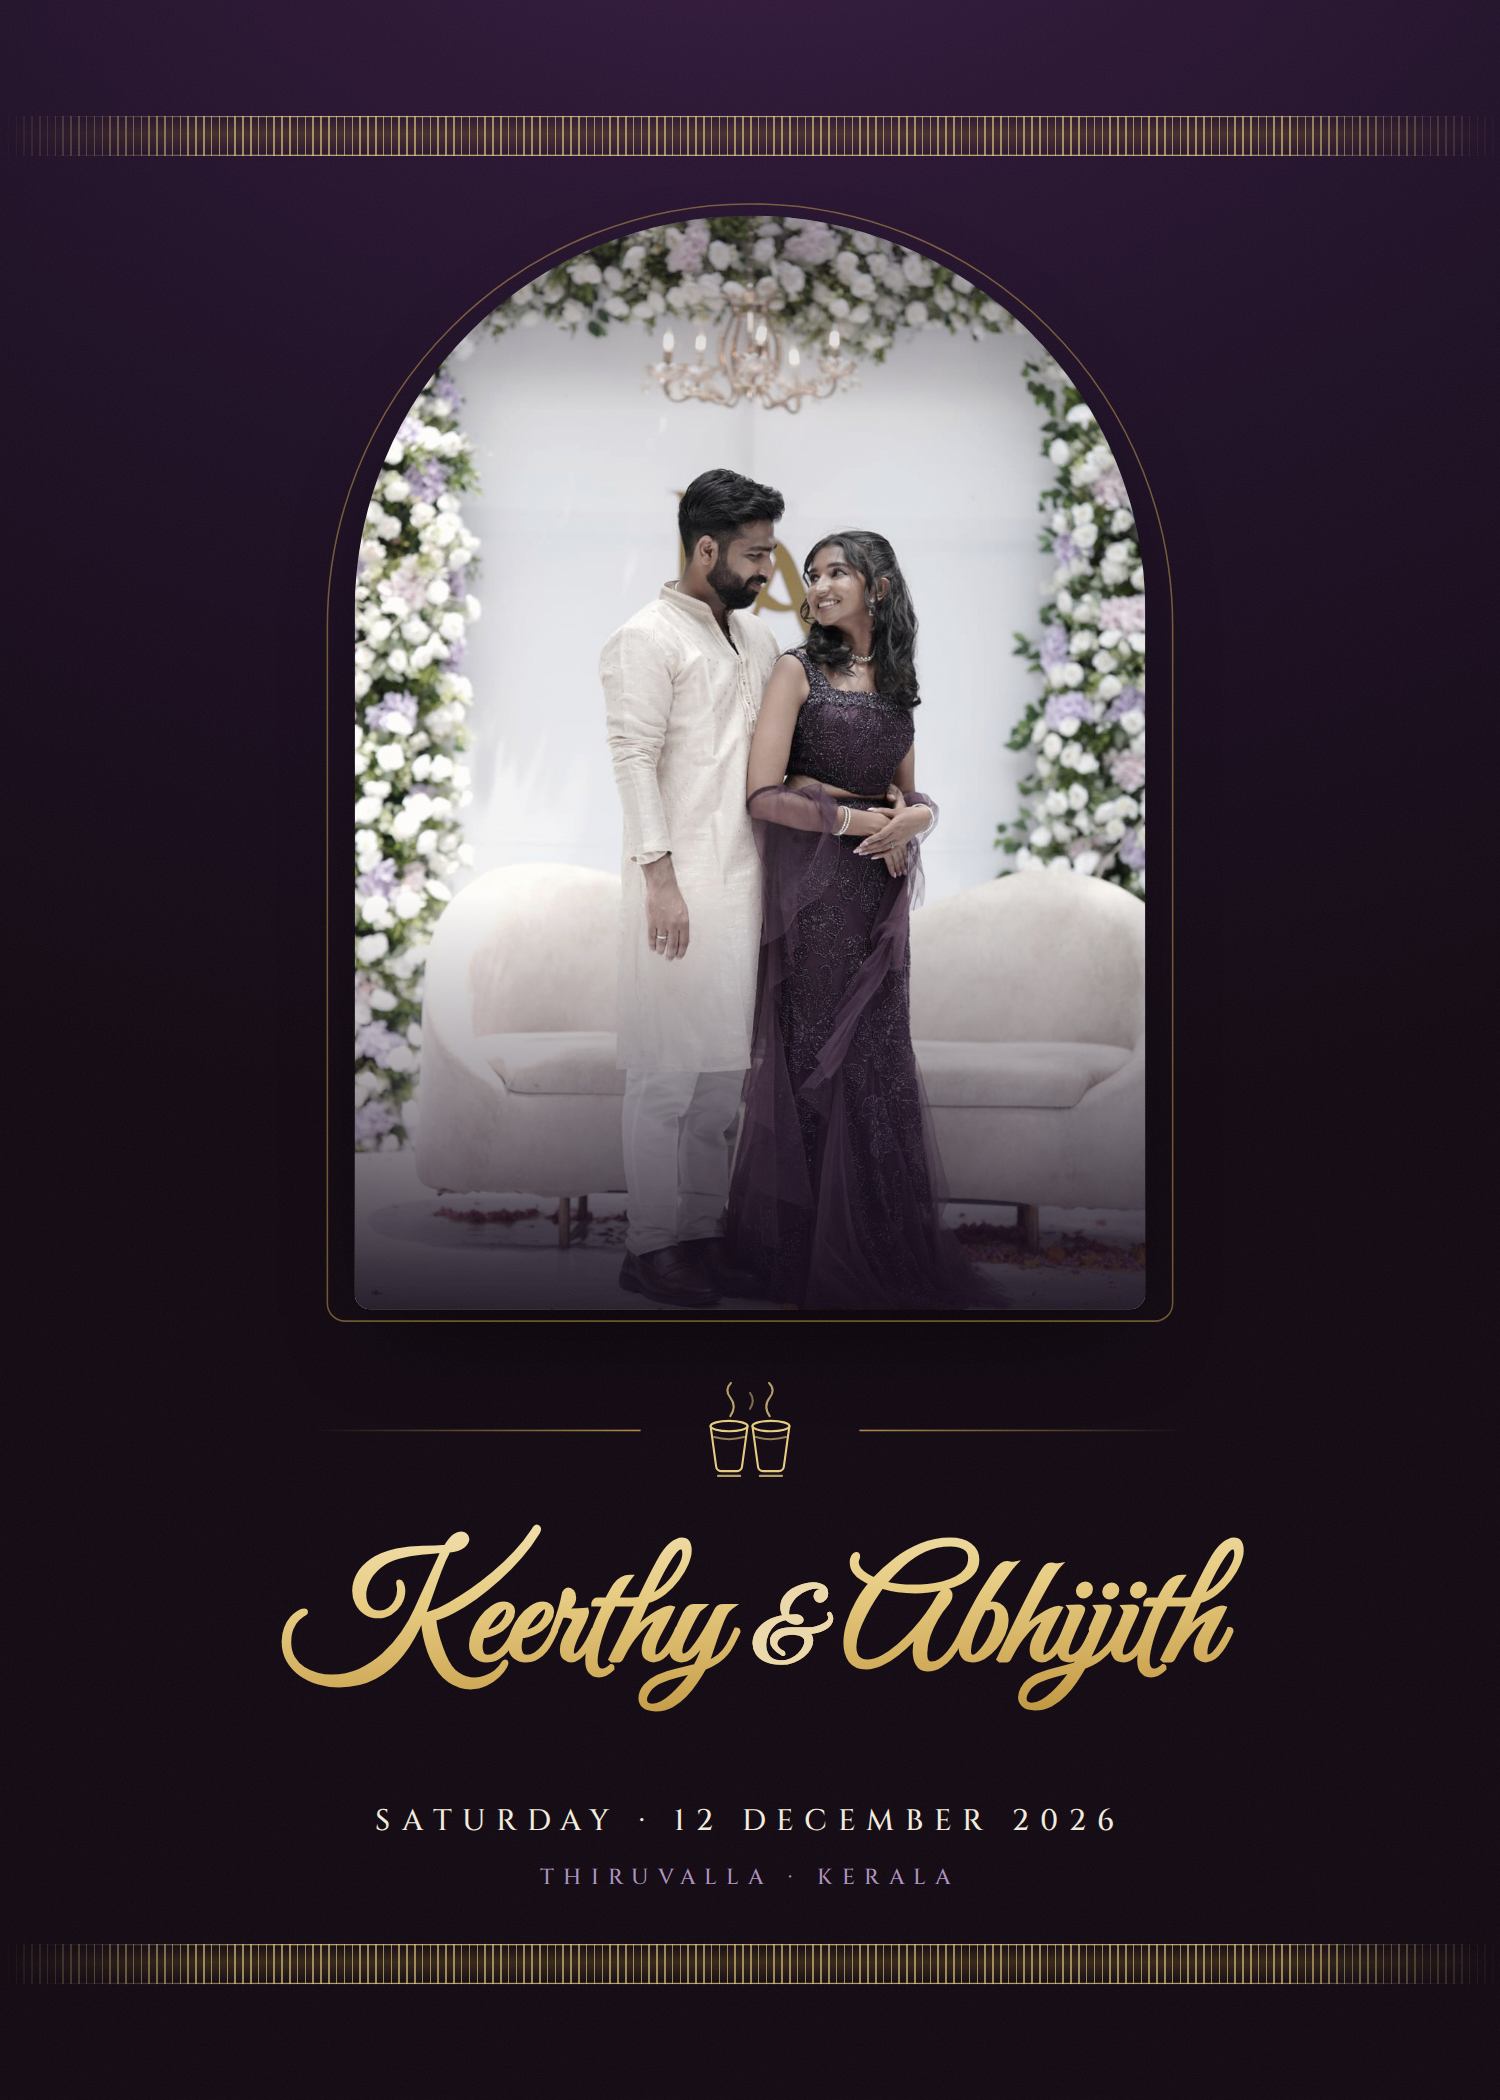
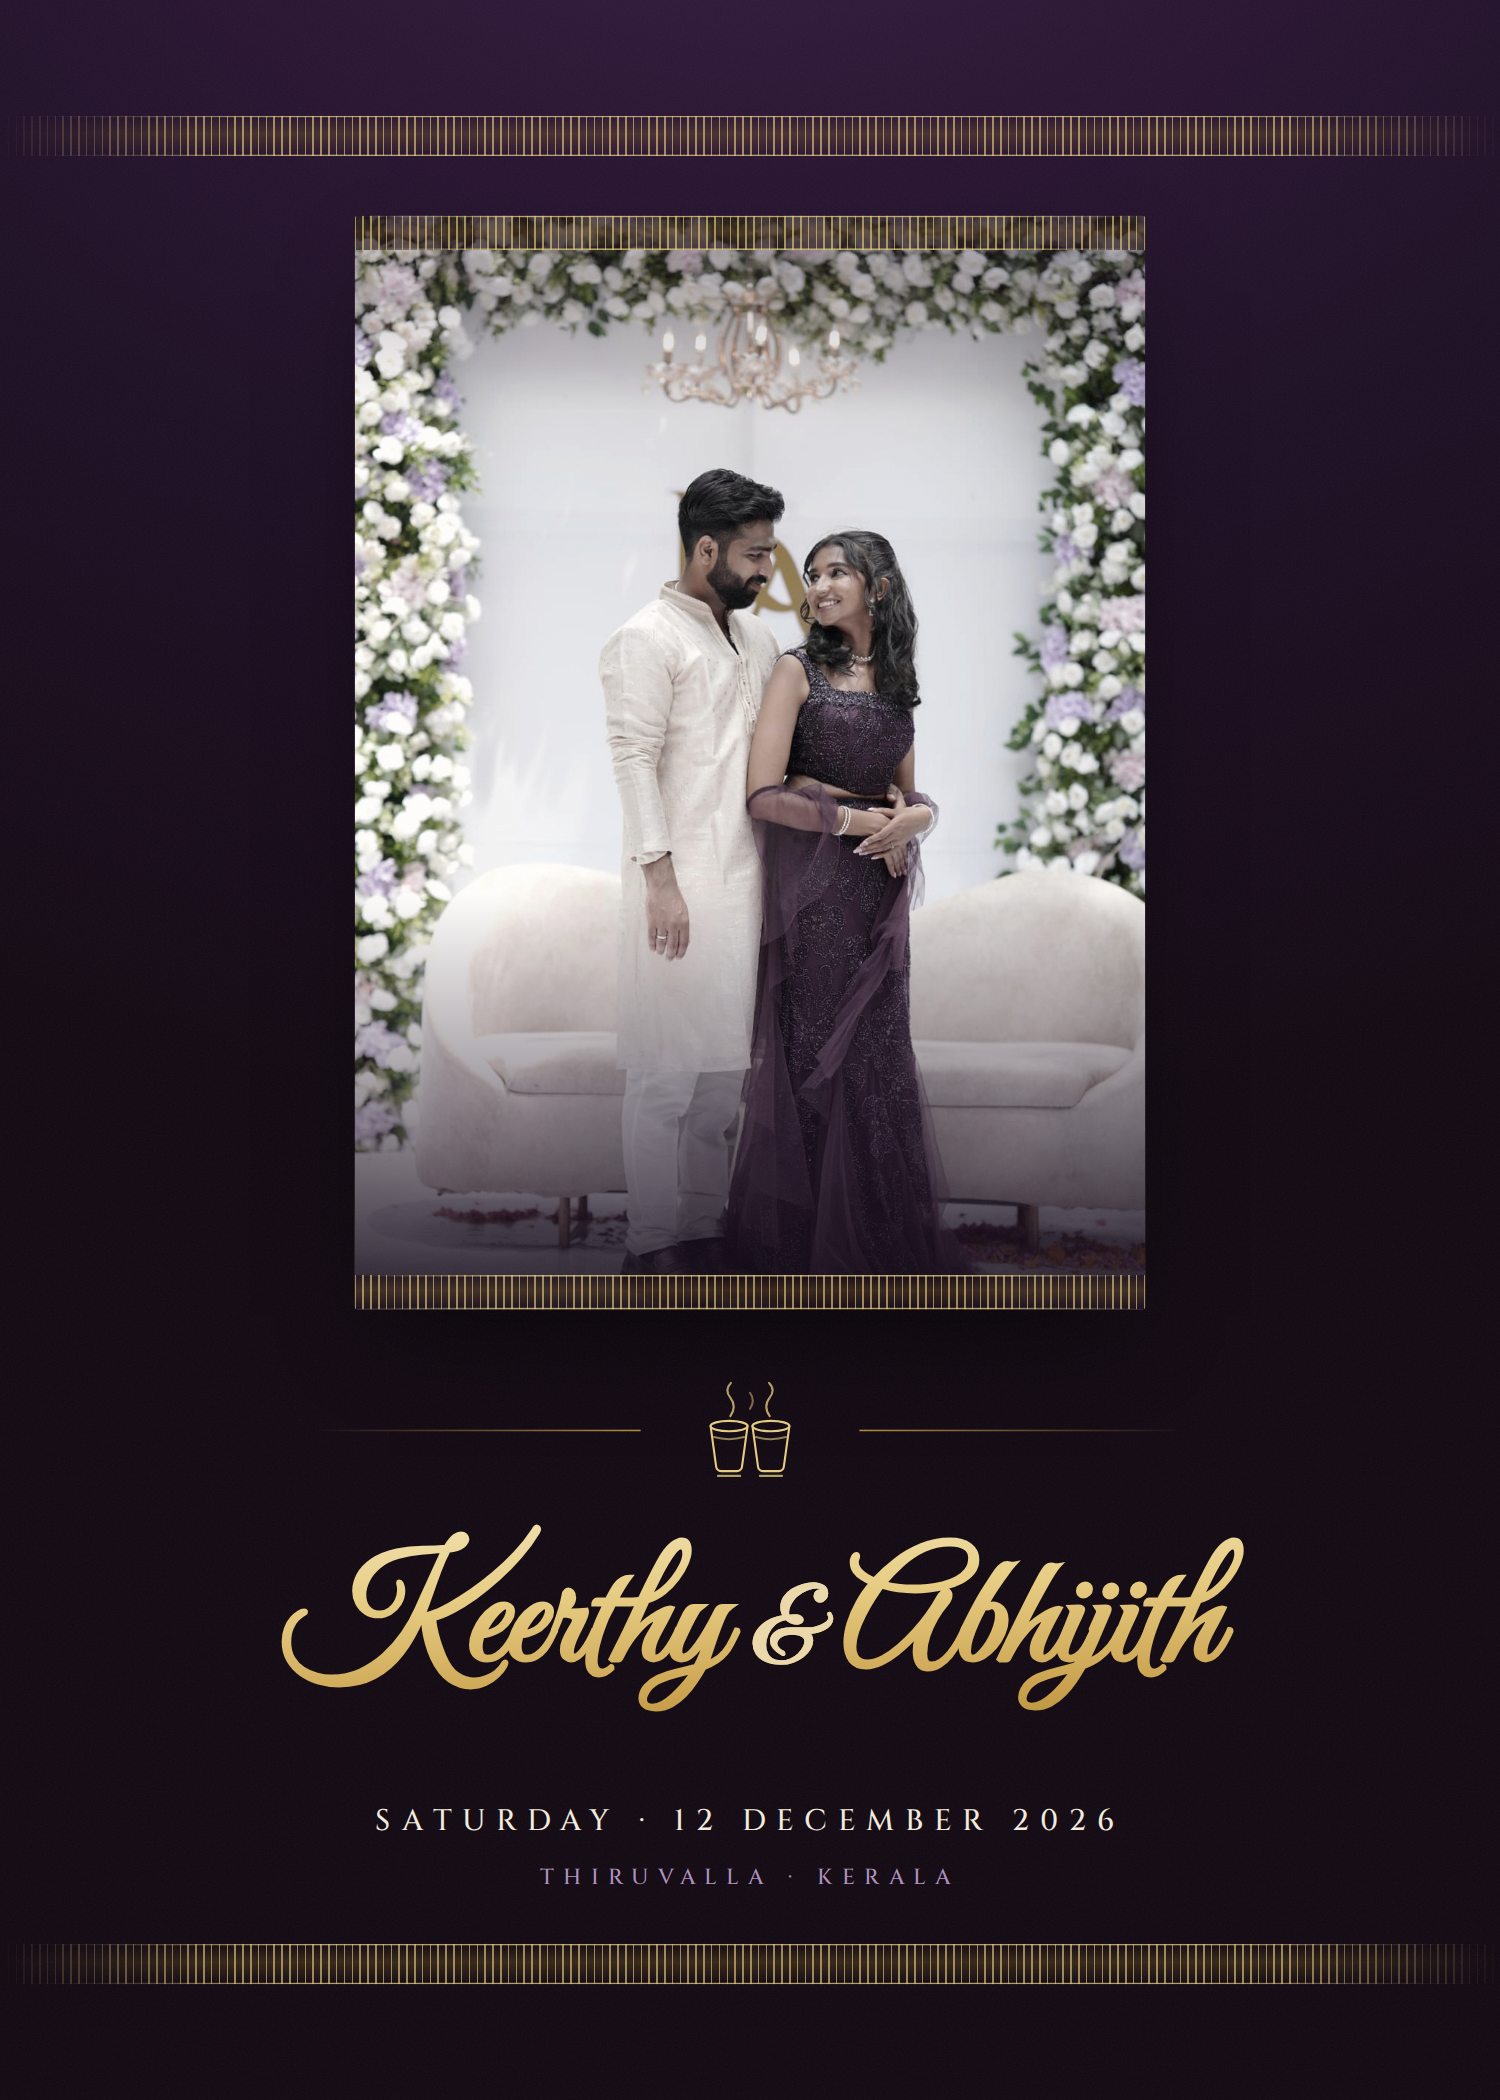
Replace the arch on the card front with a kasavu-wrapped rectangle
A round-topped arch reads Indo-Islamic, which is not what this card is. The
photo is now a plain rectangle with the kasavu kara run across its head and
foot — the same band component the sheet uses, so the photo joins the card's
existing language instead of carrying a shape of its own. Fitting for a mundu
border, and it means the front, back and envelope all speak the same way now
that the rectangular frame is gone.

Compared four replacements first (plain rule, kasavu-wrapped, rounded corners,
chamfered); the wrapped one was the only one that added meaning rather than
just avoiding the arch.

The bands carry a dark backing because the photo runs bright at the top and
dark at the foot — without it the gold thread read strongly on one band and
disappeared on the other.

Claude-Session: https://claude.ai/code/session_01U3eNzvzbkYwe2F9QhNWExs

Changed region(s): [[0.2147, 0.0929, 0.7667, 0.2786], [0.3987, 0.5881, 0.6747, 0.65], [0.276, 0.5881, 0.368, 0.619]]

diff --git a/invitation/card-front.html b/invitation/card-front.html
@@ -13,18 +13,20 @@
     align-items: center;
   }
 
-  /* the arch echoes the doorway they're standing in */
-  .arch {
+  /* A plain rectangle wrapped in the kasavu kara, top and bottom. The photo
+     used to sit in a round-topped arch, which read Indo-Islamic; this puts it
+     in the card's own language instead of giving it a shape of its own. */
+  .portrait {
     width: 506px;
     height: 700px;
     margin-top: 30px;
-    border-radius: 253px 253px 10px 10px;
+    border-radius: 2px;
     overflow: hidden;
     position: relative;
     box-shadow: 0 26px 60px -22px rgba(0, 0, 0, 0.75);
   }
 
-  .arch img {
+  .portrait img {
     width: 100%;
     height: 100%;
     object-fit: cover;
@@ -33,7 +35,7 @@
   }
 
   /* the photo settles into the plum at its foot, so it sits *in* the card */
-  .arch::after {
+  .portrait::after {
     content: "";
     position: absolute;
     inset: 0;
@@ -42,18 +44,19 @@
       radial-gradient(126% 96% at 50% 34%, transparent 60%, rgba(18, 9, 18, 0.42) 100%);
   }
 
-  /* a gold thread traced just off the arch */
-  .arch-frame {
-    position: absolute;
-    top: 22px;
-    left: 50%;
-    transform: translateX(-50%);
-    width: 542px;
-    height: 716px;
-    border: 1px solid rgba(203, 162, 77, 0.5);
-    border-radius: 271px 271px 12px 12px;
-    pointer-events: none;
+  /* the kara, run across the head and foot of the photo like the border of a
+     mundu — same component as the sheet's own bands, without the end fade */
+  .portrait .kasavu-band {
+    z-index: 2;
+    height: 22px;
+    /* the photo runs bright at the top and dark at the foot; without a backing
+       the gold thread reads strongly on one band and vanishes on the other */
+    background-color: rgba(22, 11, 26, 0.62);
+    -webkit-mask-image: none;
+    mask-image: none;
   }
+  .portrait .kasavu-band.top { top: 0; }
+  .portrait .kasavu-band.bottom { bottom: 0; }
 
   .chai-rule {
     width: 100%;
@@ -99,10 +102,11 @@
     <div class="kasavu-band bottom"></div>
 
     <div class="stack">
-      <div class="arch">
+      <div class="portrait">
         <img src="assets/hero.jpg" alt="">
+        <span class="kasavu-band top"></span>
+        <span class="kasavu-band bottom"></span>
       </div>
-      <div class="arch-frame"></div>
 
       <div class="rule chai-rule">
         <span class="line"></span>

diff --git a/invitation/README.md b/invitation/README.md
@@ -9,7 +9,7 @@ includes `src/`, so this folder is inert as far as the site is concerned.
 
 | Page | Trim size | What it is |
 | --- | --- | --- |
-| `card-front.html` | 5 × 7 in | The showpiece — arched photo, names, date |
+| `card-front.html` | 5 × 7 in | The showpiece — photo wrapped in kasavu, names, date |
 | `card-back-all.html` | 5 × 7 in | **All four celebrations.** For close family and friends |
 | `card-back-public.html` | 5 × 7 in | **The wedding day only.** The general-invite version |
 | `envelope-front.html` | 5.25 × 7.25 in | Address side — ruled lines for the guest's name |
